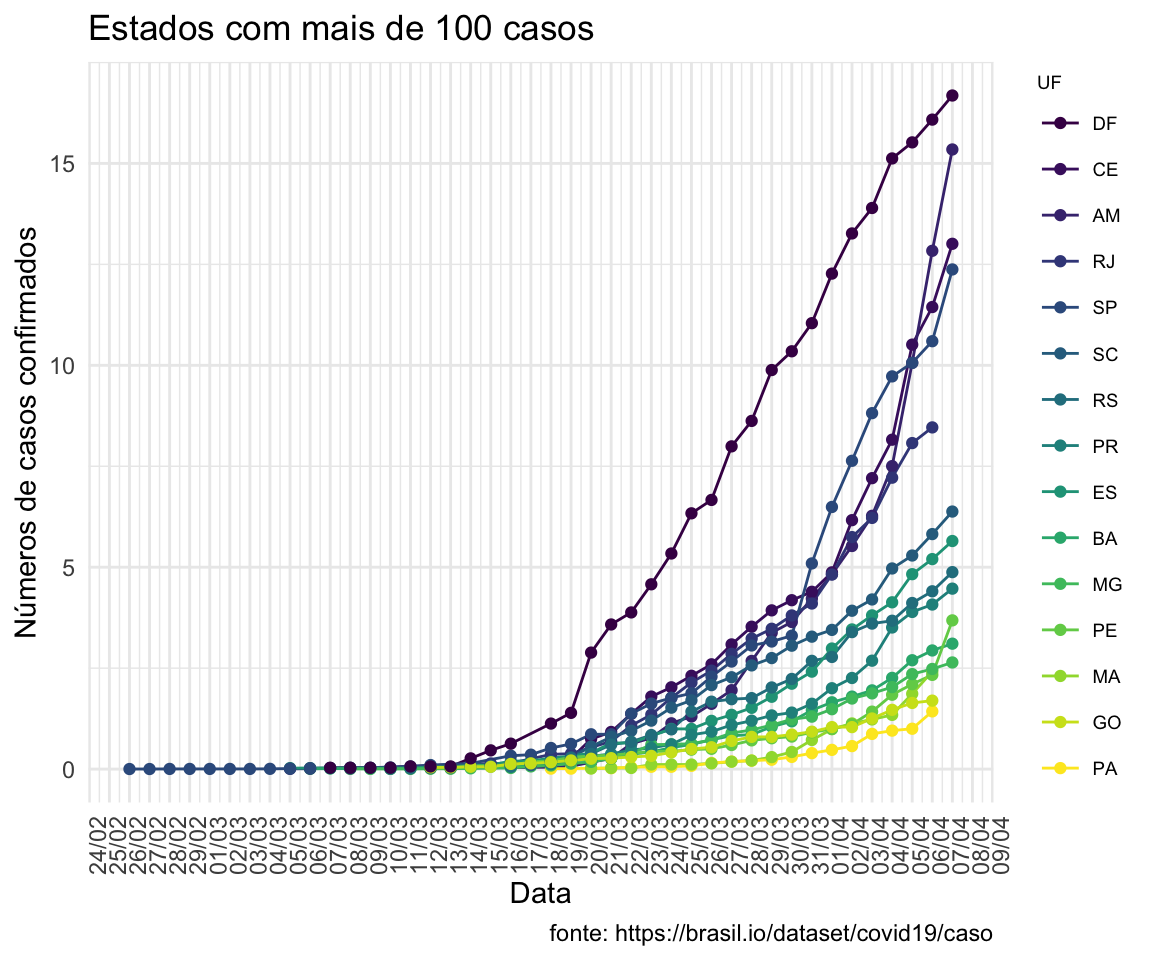
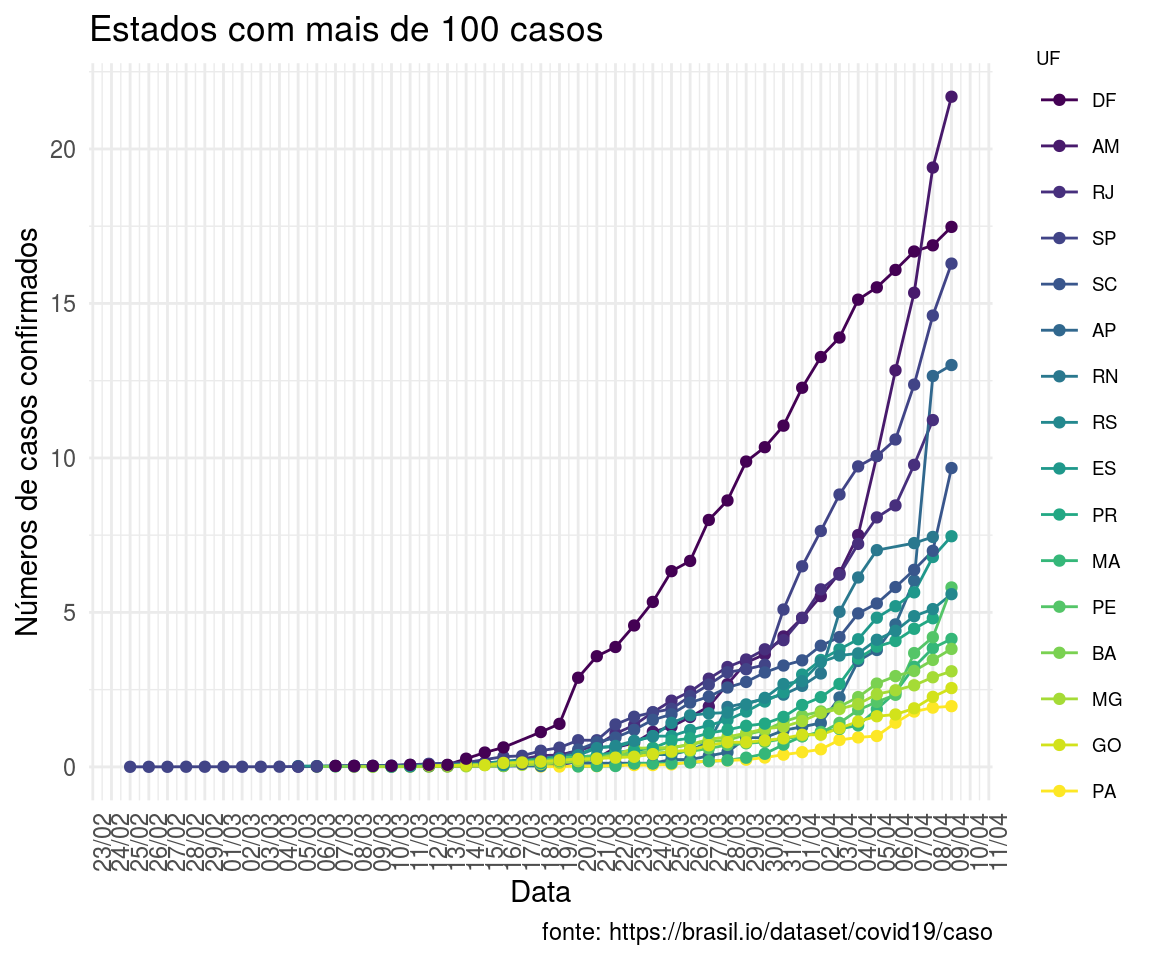
Deploy liibre/coronabr to github.com/liibre/coronabr.git:gh-pages

diff --git a/index.html b/index.html
@@ -120,7 +120,7 @@
 <p>O nosso objetivo é facilitar o acesso aos dados de diferentes fontes, usando ferramentas de acesso aberto e que permitam reprodutibilidade.</p>
 <p>O código é aberto. Entre em <a href="https://liibre.github.io/coronabr/articles/coronabr.html">como usar</a> para um exemplo de como utilizar o pacote. Compartilhe.</p>
 <p>Disponibilizamos aqui atualizações diárias dos gráficos. Sabemos que deve haver maneiras responsáveis de apresentar estes dados e que as comparações entre regiões e países dependem de muitas variáveis.</p>
-<p>Fazemos ciência aberta, democrática e reprodutível. Este é um trabalho em desenvolvimento. Para entender como contribuir, clique <a href="https://liibre.github.io/coronabr/docs/CONTRIBUTING.html">aqui</a>.</p>
+<p>Fazemos ciência aberta, democrática e reprodutível. Este é um trabalho em desenvolvimento. Para entender como contribuir, clique <a href="https://liibre.github.io/coronabr/CONTRIBUTING.html">aqui</a>.</p>
 </div>
 <div id="aviso" class="section level2">
 <h2 class="hasAnchor">
@@ -137,22 +137,22 @@
 <h3 class="hasAnchor">
 <a href="#nota-sobre-os-dados-disponibilizados-pelo-ministerio-da-saude" class="anchor"></a>Nota sobre os dados disponibilizados pelo Ministério da Saúde</h3>
 <ul>
-<li>A partir de 14/03/20, a notificação de casos graves de COVID-19 foca apenas nos casos graves que são atendidos nos hospitais.</li>
+<li>A partir de 2020-03-14, a notificação de casos graves de COVID-19 foca apenas nos casos graves que são atendidos nos hospitais.</li>
 <li>Até 2020-03-18 o ministério de saúde brasileiro disponibilizou os dados de casos de coronavirus COVID-19 discriminados por estado na página <a href="http://plataforma.saude.gov.br/novocoronavirus/#COVID-19-brazil" class="uri">http://plataforma.saude.gov.br/novocoronavirus/#COVID-19-brazil</a>
 </li>
 <li>Entre 2020-03-18 e 2020-03-25, a página original do Ministério da Saúde parou de funcionar e os dados de casos de coronavirus COVID-19 discriminados por estado foram divulgados em apresentações de powerpoint e PDFs no blog do Ministério. <a href="https://www.twitter.com/belisards">Adriano Belisario</a> fez a compilação manual destes dados <a href="https://github.com/belisards/coronabr">neste repositório</a>
 </li>
 <li>A partir de 2020-03-26 o ministério de saúde brasileiro disponibilizou os dados de casos de coronavirus COVID-19 na página <a href="https://covid.saude.gov.br/" class="uri">https://covid.saude.gov.br/</a>
 </li>
-<li>A partir de 28-03-2020 a opção de fazer download da série histórica por casos voltou a estar disponível. <strong>Estamos implementando de novo a função que disponibiliza esses dados</strong>
-</li>
+<li>A partir de 2020-03-28 a opção de fazer download da série histórica por casos voltou a estar disponível. Depois disso, o padrão vem mudado diariamente, mas agora temos uma função estável <code><a href="reference/get_corona_minsaude.html">get_corona_minsaude()</a></code> para o download desses dados (instruções de como usar <a href="https://liibre.github.io/coronabr/articles/minsaude.html">aqui</a>).</li>
 </ul>
 </div>
 </div>
 <div id="visualizando-os-dados" class="section level2">
 <h2 class="hasAnchor">
 <a href="#visualizando-os-dados" class="anchor"></a>Visualizando os dados</h2>
-<p>Importante lembrar que desde 27/03/2020 tem muitos testes sem resultados e que os dados não refletem a epidemia e sim as notificações - e que essas estão atrasadas devido ao atraso no resultado dos testes.</p>
+<p>Importante lembrar que desde 2020-03-27 tem muitos testes sem resultados e que os dados não refletem a epidemia e sim as notificações - e que essas estão atrasadas devido ao atraso no resultado dos testes.</p>
+<p>Entre <a href="https://liibre.github.io/coronabr/articles/lac.html">aqui</a> para acompanhar os casos na América Latina (versão em espanhol <a href="https://liibre.github.io/coronabr/articles/lac_es.html">aqui</a>)</p>
 <div id="crescimento-nacional-no-numero-de-casos" class="section level3">
 <h3 class="hasAnchor">
 <a href="#crescimento-nacional-no-numero-de-casos" class="anchor"></a>Crescimento nacional no número de casos</h3>
@@ -196,7 +196,7 @@
 <li><p><a href="https://medium.com/nightingale/ten-considerations-before-you-create-another-chart-about-covid-19-27d3bd691be8">Dez considerações antes de criar mais um gráfico sobre o COVID-19 (em inglês)</a></p></li>
 <li><p>Siga o <strong>Atila Iamarino</strong> no <a href="https://www.youtube.com/channel/UCSTlOTcyUmzvhQi6F8lFi5w">youtube</a>, <a href="www.instagram.com/oatila">Instagram</a>, <a href="https://twitter.com/oatila">twitter</a> ou <a href="https://t.me/corona_atila">telegram</a>. Tem também um <a href="https://www.reddit.com/r/coronabr/">fórum brasileiro de reddit</a> com muita informação.</p></li>
 </ul>
-<p>Dúvidas, contribuições e sugestões, poste uma <em>issue</em> <a href="https://github.com/liibre/coronabr/issues">aqui</a>, escreva-nos um <a href="mailto:liibrelab@gmail.com">email</a> ou nos encontre no twitter (<a href="https://twitter.com/mortarasara">Sara</a>, <a href="https://twitter.com/SanchezTapiaA">Andrea</a> ou <a href="https://twitter.com/kguidonimartins">Karlo</a>).</p>
+<p>Dúvidas, contribuições e sugestões, poste uma <em>issue</em> <a href="https://github.com/liibre/coronabr/issues">aqui</a>, escreva-nos um <a href="mailto:liibrelab@gmail.com">e-mail</a> ou nos encontre no twitter (<a href="https://twitter.com/mortarasara">Sara</a>, <a href="https://twitter.com/SanchezTapiaA">Andrea</a> ou <a href="https://twitter.com/kguidonimartins">Karlo</a>).</p>
 </div>
 </div>
 

diff --git a/articles/coronabr.html b/articles/coronabr.html
@@ -129,26 +129,26 @@
 <a href="#inspecionando-os-dados" class="anchor"></a>Inspecionando os dados</h4>
 <div class="sourceCode" id="cb3"><html><body><pre class="r"><span class="fu"><a href="https://rdrr.io/r/utils/head.html">head</a></span>(<span class="no">dados</span>)</pre></body></html></div>
 <pre><code>##         date state city place_type confirmed deaths is_last
-## 1 2020-04-07    AC           state        50      1    True
-## 2 2020-04-07    AM           state       636     23    True
-## 3 2020-04-07    BA           state       462     14    True
-## 4 2020-04-07    CE           state      1188     40    True
-## 5 2020-04-07    DF           state       503     12    True
-## 6 2020-04-07    ES           state       227      6    True
+## 1 2020-04-09    AC           state        62      2    True
+## 2 2020-04-09    AL           state        37      3    True
+## 3 2020-04-09    AM           state       899     40    True
+## 4 2020-04-09    AP           state       110      2    True
+## 5 2020-04-09    BA           state       568     19    True
+## 6 2020-04-09    DF           state       527     13    True
 ##   estimated_population_2019 city_ibge_code confirmed_per_100k_inhabitants
-## 1                    881935             12                        5.66935
-## 2                   4144597             13                       15.34528
-## 3                  14873064             29                        3.10629
-## 4                   9132078             23                       13.00909
-## 5                   3015268             53                       16.68177
-## 6                   4018650             32                        5.64866
+## 1                    881935             12                        7.03000
+## 2                   3337357             27                        1.10866
+## 3                   4144597             13                       21.69089
+## 4                    845731             16                       13.00650
+## 5                  14873064             29                        3.81898
+## 6                   3015268             53                       17.47772
 ##   death_rate
-## 1     0.0200
-## 2     0.0362
-## 3     0.0303
-## 4     0.0337
-## 5     0.0239
-## 6     0.0264</code></pre>
+## 1     0.0323
+## 2     0.0811
+## 3     0.0445
+## 4     0.0182
+## 5     0.0335
+## 6     0.0247</code></pre>
 </div>
 </div>
 <div id="baixando-os-dados-mundiais" class="section level3">
@@ -159,11 +159,11 @@
 <pre><code>## Baixando dados atualizados ...</code></pre>
 <pre><code>## Parsed with column specification:
 ## cols(
-##   FIPS = col_double(),
+##   FIPS = col_character(),
 ##   Admin2 = col_character(),
 ##   Province_State = col_character(),
 ##   Country_Region = col_character(),
-##   Last_Update = col_character(),
+##   Last_Update = col_datetime(format = ""),
 ##   Lat = col_double(),
 ##   Long_ = col_double(),
 ##   Confirmed = col_double(),
@@ -178,16 +178,16 @@
 <a href="#inspecionando-os-dados-mundiais" class="anchor"></a>Inspecionando os dados mundiais</h4>
 <div class="sourceCode" id="cb10"><html><body><pre class="r"><span class="fu"><a href="https://rdrr.io/r/utils/head.html">head</a></span>(<span class="no">dados_jhu</span>)</pre></body></html></div>
 <pre><code>## # A tibble: 6 x 12
-##    fips admin2 province_state country_region last_update   lat   long confirmed
-##   &lt;dbl&gt; &lt;chr&gt;  &lt;chr&gt;          &lt;chr&gt;          &lt;chr&gt;       &lt;dbl&gt;  &lt;dbl&gt;     &lt;dbl&gt;
-## 1 45001 Abbev… South Carolina US             4/6/20 23:…  34.2  -82.5         6
-## 2 22001 Acadia Louisiana      US             4/6/20 23:…  30.3  -92.4        79
-## 3 51001 Accom… Virginia       US             4/6/20 23:…  37.8  -75.6        11
-## 4 16001 Ada    Idaho          US             4/6/20 23:…  43.5 -116.        402
-## 5 19001 Adair  Iowa           US             4/6/20 23:…  41.3  -94.5         1
-## 6 21001 Adair  Kentucky       US             4/6/20 23:…  37.1  -85.3         3
-## # … with 4 more variables: deaths &lt;dbl&gt;, recovered &lt;dbl&gt;, active &lt;dbl&gt;,
-## #   combined_key &lt;chr&gt;</code></pre>
+##   fips  admin2 province_state country_region last_update   lat   long
+##   &lt;chr&gt; &lt;chr&gt;  &lt;chr&gt;          &lt;chr&gt;          &lt;chr&gt;       &lt;dbl&gt;  &lt;dbl&gt;
+## 1 45001 Abbev… South Carolina US             2020-04-09…  34.2  -82.5
+## 2 22001 Acadia Louisiana      US             2020-04-09…  30.3  -92.4
+## 3 51001 Accom… Virginia       US             2020-04-09…  37.8  -75.6
+## 4 16001 Ada    Idaho          US             2020-04-09…  43.5 -116. 
+## 5 19001 Adair  Iowa           US             2020-04-09…  41.3  -94.5
+## 6 21001 Adair  Kentucky       US             2020-04-09…  37.1  -85.3
+## # … with 5 more variables: confirmed &lt;dbl&gt;, deaths &lt;dbl&gt;, recovered &lt;dbl&gt;,
+## #   active &lt;dbl&gt;, combined_key &lt;chr&gt;</code></pre>
 </div>
 </div>
 </div>
